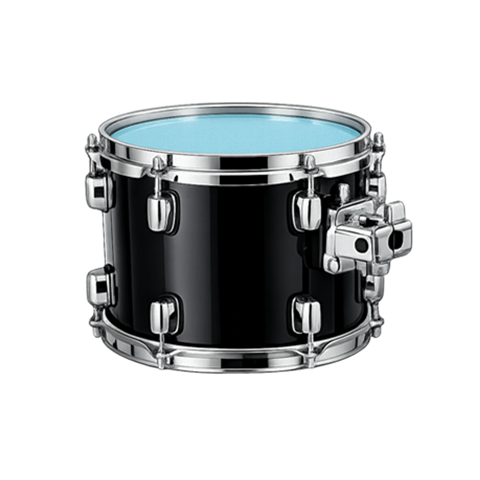
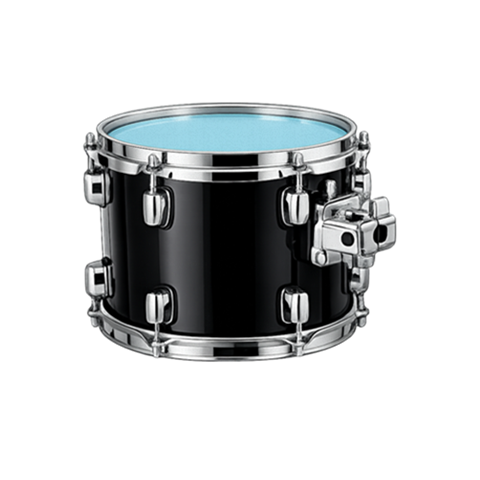
Fix hit-image alignment precisely, reposition tom_floor, add stick animation
Pixel-perfect (full-resolution) bounding-box alignment revealed the
previous coarser check had missed a real ~5% size mismatch on tom_high and
tom_floor's hit photos, causing a visible zoom/jump on hit — realigned all
5 hit images against their idle counterparts. Also: preload hit images and
pin aspect-ratio so a piece's first-ever hit doesn't flash while the image
loads; reposition tom_floor further back/right so its silhouette isn't cut
off by kick's edge; strengthen the cymbal glow (too subtle to notice) and
add a lighter matching glow for image-swap pieces; add a CSS-drawn
drumstick that swings in per piece (left-hand pieces from the left,
right-hand pieces from the right, none for kick).

Changed region(s): [[0.1562, 0.1875, 0.875, 0.7812]]

diff --git a/src/components/visual-trainer/DrumKit.tsx b/src/components/visual-trainer/DrumKit.tsx
@@ -27,8 +27,14 @@ const CYMBAL_PIECES: ReadonlySet<DrumPiece> = new Set(['ride', 'crash', 'hihat']
 // Front-facing kit shape, tightly grouped like an assembled kit rather than
 // scattered pieces: crash/ride angled at the top corners bookending the two
 // mounted toms (touching each other, directly above the kick), hihat stand
-// at the player's far left, snare/kick/floor-tom overlapping into one front
-// row with the kick largest and centered.
+// at the player's far left, snare/kick in the front row with the kick
+// largest and centered. tom_floor sits further back and to the right
+// (lower top%, higher left% than a naive "same row as kick" placement) —
+// pulled back explicitly per user feedback, since kick and tom_floor
+// overlapping heavily in the same row made kick's rounded edge look like it
+// was cutting into tom_floor's silhouette (DOM/paint order already has
+// tom_floor on top — see the isActive doc comment on DrumKitProps — this
+// was a spacing issue, not a stacking one).
 const PIECE_LAYOUT: Record<DrumPiece, CSSProperties> = {
   crash: { top: '0%', left: '9%', width: '40%' },
   tom_high: { top: '16%', left: '34%', width: '28%' },
@@ -37,7 +43,7 @@ const PIECE_LAYOUT: Record<DrumPiece, CSSProperties> = {
   hihat: { top: '20%', left: '-4%', width: '28%' },
   snare: { top: '34%', left: '12%', width: '32%' },
   kick: { top: '34%', left: '26%', width: '50%' },
-  tom_floor: { top: '34%', left: '55%', width: '38%' },
+  tom_floor: { top: '26%', left: '60%', width: '36%' },
 }
 
 const PIECE_IMAGE_SRC: Record<DrumPiece, string> = {
@@ -64,6 +70,15 @@ const HIT_IMAGE_SRC: Partial<Record<DrumPiece, string>> = {
   tom_high: '/drum-kit/tom-high-hit.png',
 }
 const HIT_FLASH_MS = 150
+
+// Every piece photo is a known fixed size (tom_floor is the only non-square
+// one) — pinning aspect-ratio means the browser reserves the right space
+// immediately, so a freshly-mounted <img> (every hit remounts its piece,
+// see DrumKitProps' isActive comment) can never visibly collapse/pop-in
+// while it decodes, on top of the actual pixel-alignment work below.
+const PIECE_ASPECT_RATIO: Partial<Record<DrumPiece, string>> = {
+  tom_floor: '320 / 480',
+}
 
 const PIECE_ALT: Record<DrumPiece, string> = {
   kick: 'בס דראם',
@@ -111,10 +126,32 @@ function PieceImage({ piece, isActive }: { piece: DrumPiece; isActive: boolean }
   }, [showHitImage])
 
   const src = showHitImage && hitImageSrc ? hitImageSrc : PIECE_IMAGE_SRC[piece]
-  return <img src={src} alt={PIECE_ALT[piece]} className="w-full drop-shadow-lg" />
+  const aspectRatio = PIECE_ASPECT_RATIO[piece]
+  return (
+    <img
+      src={src}
+      alt={PIECE_ALT[piece]}
+      className="w-full drop-shadow-lg"
+      style={aspectRatio ? { aspectRatio } : undefined}
+    />
+  )
 }
 
+// Every hit-image src, warmed into the browser's HTTP cache once on the
+// kit's first mount — a piece's hit image is otherwise only ever requested
+// lazily, the first time that piece is actually hit, which could show as a
+// blank/late-popping-in flash instead of an instant swap, independent of
+// how precisely the image itself is pixel-aligned to the idle photo.
+const HIT_IMAGE_SRCS = Object.values(HIT_IMAGE_SRC)
+
 export function DrumKit({ activeHits }: DrumKitProps) {
+  useEffect(() => {
+    for (const src of HIT_IMAGE_SRCS) {
+      const image = new Image()
+      image.src = src
+    }
+  }, [])
+
   const pieceTokens: Partial<Record<DrumPiece, string>> = {}
   if (activeHits) {
     for (const [instrument, token] of Object.entries(activeHits) as [DrumInstrument, string | undefined][]) {
@@ -128,10 +165,12 @@ export function DrumKit({ activeHits }: DrumKitProps) {
         const token = pieceTokens[piece]
         const isActive = token !== undefined
         // A piece with a HIT_IMAGE_SRC entry gets its feedback from
-        // PieceImage's blue-head image swap instead of the scale animation
-        // every other piece uses.
+        // PieceImage's blue-head image swap plus a lighter glow
+        // (image-hit), instead of the scale animation every other piece
+        // uses.
         const hasHitImage = HIT_IMAGE_SRC[piece] !== undefined
-        const className = `drum-piece${CYMBAL_PIECES.has(piece) ? ' cymbal' : ''}${isActive && !hasHitImage ? ' hit' : ''}`
+        const stateClass = isActive ? (hasHitImage ? ' image-hit' : ' hit') : ''
+        const className = `drum-piece${CYMBAL_PIECES.has(piece) ? ' cymbal' : ''}${stateClass}`
         return (
           <div
             key={isActive ? token : `${piece}-idle`}
@@ -140,6 +179,14 @@ export function DrumKit({ activeHits }: DrumKitProps) {
             style={{ position: 'absolute', ...PIECE_LAYOUT[piece] }}
           >
             <PieceImage piece={piece} isActive={isActive} />
+            {/* A CSS-drawn stick (index.css's .drumstick) rather than
+                another product photo: it's reusable across every piece with
+                one rule instead of needing a per-piece asset sourced and
+                pixel-aligned the way the hit-image photos were. Always
+                rendered — index.css only animates/shows it while the
+                parent has .hit or .image-hit, so it's invisible at rest.
+                Not rendered for kick, which is foot-pedal-operated. */}
+            {piece !== 'kick' && <div className="drumstick" aria-hidden="true" />}
           </div>
         )
       })}

diff --git a/src/index.css b/src/index.css
@@ -72,6 +72,29 @@ input[type='radio'] {
   animation: cymbal-hit 400ms ease-out;
 }
 
+/* Pieces that swap to a real "hit" product photo (DrumKit.tsx's
+   HIT_IMAGE_SRC) get a lighter glow alongside the color swap — the color
+   change is already the primary signal there, so this is deliberately
+   weaker than cymbal-hit's (smaller blur radii, lower brightness boost)
+   rather than a matching duplicate. A single thin drop-shadow (the first
+   version here) turned out to be too weak to actually notice against these
+   photos, so this still layers two shadows like cymbal-hit, just smaller. */
+.drum-piece.image-hit {
+  animation: drum-glow 200ms ease-out;
+}
+
+@keyframes drum-glow {
+  0% {
+    filter: drop-shadow(0 0 0 transparent) drop-shadow(0 0 0 transparent) brightness(1);
+  }
+  30% {
+    filter: drop-shadow(0 0 6px var(--color-primary)) drop-shadow(0 0 16px var(--color-primary)) brightness(1.15);
+  }
+  100% {
+    filter: drop-shadow(0 0 0 transparent) drop-shadow(0 0 0 transparent) brightness(1);
+  }
+}
+
 @keyframes drum-hit {
   0% {
     transform: scale(1);
@@ -86,13 +109,101 @@ input[type='radio'] {
 
 @keyframes cymbal-hit {
   0% {
-    filter: drop-shadow(0 0 0 transparent);
+    filter: drop-shadow(0 0 0 transparent) drop-shadow(0 0 0 transparent) brightness(1);
   }
   30% {
-    filter: drop-shadow(0 0 10px var(--color-primary)) brightness(1.3);
+    filter: drop-shadow(0 0 8px var(--color-primary)) drop-shadow(0 0 22px var(--color-primary)) brightness(1.5);
   }
   100% {
-    filter: drop-shadow(0 0 0 transparent);
+    filter: drop-shadow(0 0 0 transparent) drop-shadow(0 0 0 transparent) brightness(1);
+  }
+}
+
+/* CSS-drawn drumstick (DrumKit.tsx's .drumstick div, not rendered at all
+   for kick — that's foot-pedal-operated, no stick) — swings in from the
+   left (the player's own left, holding the stick off to that side) to
+   "strike" the piece and fades out, on every piece's hit (.hit or
+   .image-hit). A CSS shape rather than a photo so one rule covers every
+   piece, instead of sourcing and pixel-aligning a per-piece stick photo the
+   way the hit-image photos needed. Pivots from its own bottom-left corner,
+   near the piece's left edge — a first pass, likely needs per-piece
+   position/angle tuning like tom_floor's layout did. */
+.drumstick {
+  position: absolute;
+  bottom: 40%;
+  left: 8%;
+  width: 4%;
+  height: 55%;
+  background: linear-gradient(to bottom, #e8c39e, #b9814a);
+  border-radius: 999px;
+  transform-origin: bottom left;
+  transform: rotate(-20deg);
+  opacity: 0;
+  pointer-events: none;
+}
+
+.drum-piece.hit .drumstick,
+.drum-piece.image-hit .drumstick {
+  animation: stick-strike 180ms ease-out;
+}
+
+@keyframes stick-strike {
+  0% {
+    transform: rotate(-25deg);
+    opacity: 1;
+  }
+  55% {
+    transform: rotate(35deg);
+    opacity: 1;
+  }
+  100% {
+    transform: rotate(-25deg);
+    opacity: 0;
+  }
+}
+
+/* Right-hand pieces (hi-hat, ride, and the toms — same grouping as the
+   keyboard layout's own hand-crossing fix, which clustered these under the
+   right hand's keys) swing their stick in from the right instead of the
+   left — a horizontal mirror of the base rule/keyframes above. Snare and
+   crash keep the default left-hand origin. Kick has no stick at all (see
+   DrumKit.tsx) — foot-pedal-operated. */
+.drum-piece[data-instrument='hihat'] .drumstick,
+.drum-piece[data-instrument='ride'] .drumstick,
+.drum-piece[data-instrument='tom_high'] .drumstick,
+.drum-piece[data-instrument='tom_mid'] .drumstick,
+.drum-piece[data-instrument='tom_floor'] .drumstick {
+  left: auto;
+  right: 30%;
+  transform-origin: bottom right;
+  transform: rotate(20deg);
+}
+
+.drum-piece[data-instrument='hihat'].hit .drumstick,
+.drum-piece[data-instrument='hihat'].image-hit .drumstick,
+.drum-piece[data-instrument='ride'].hit .drumstick,
+.drum-piece[data-instrument='ride'].image-hit .drumstick,
+.drum-piece[data-instrument='tom_high'].hit .drumstick,
+.drum-piece[data-instrument='tom_high'].image-hit .drumstick,
+.drum-piece[data-instrument='tom_mid'].hit .drumstick,
+.drum-piece[data-instrument='tom_mid'].image-hit .drumstick,
+.drum-piece[data-instrument='tom_floor'].hit .drumstick,
+.drum-piece[data-instrument='tom_floor'].image-hit .drumstick {
+  animation-name: stick-strike-mirrored;
+}
+
+@keyframes stick-strike-mirrored {
+  0% {
+    transform: rotate(25deg);
+    opacity: 1;
+  }
+  55% {
+    transform: rotate(-35deg);
+    opacity: 1;
+  }
+  100% {
+    transform: rotate(25deg);
+    opacity: 0;
   }
 }
 

diff --git a/src/components/visual-trainer/DrumKit.test.tsx b/src/components/visual-trainer/DrumKit.test.tsx
@@ -57,6 +57,13 @@ describe('DrumKit', () => {
     expect(container.querySelectorAll('img')).toHaveLength(8)
   })
 
+  it('renders a drumstick for every piece except kick, which is foot-pedal-operated', () => {
+    const { container } = render(<DrumKit />)
+    expect(container.querySelector('[data-instrument="kick"] .drumstick')).not.toBeInTheDocument()
+    expect(container.querySelector('[data-instrument="snare"] .drumstick')).toBeInTheDocument()
+    expect(container.querySelector('[data-instrument="crash"] .drumstick')).toBeInTheDocument()
+  })
+
   describe.each([
     { piece: 'snare', instrument: 'snare', idleSrc: '/drum-kit/snare.png', hitSrc: '/drum-kit/snare-hit.png' },
     { piece: 'kick', instrument: 'kick', idleSrc: '/drum-kit/kick.png', hitSrc: '/drum-kit/kick-hit.png' },
@@ -75,6 +82,14 @@ describe('DrumKit', () => {
     it(`never applies the hit (scale animation) class to the ${piece} piece`, () => {
       const { container } = render(<DrumKit activeHits={{ [instrument]: 'a' }} />)
       expect(container.querySelector(`[data-instrument="${piece}"]`)).not.toHaveClass('hit')
+    })
+
+    it(`applies the image-hit (glow) class to the ${piece} piece only while active`, () => {
+      const { container } = render(<DrumKit activeHits={{ [instrument]: 'a' }} />)
+      expect(container.querySelector(`[data-instrument="${piece}"]`)).toHaveClass('image-hit')
+
+      const { container: idleContainer } = render(<DrumKit />)
+      expect(idleContainer.querySelector(`[data-instrument="${piece}"]`)).not.toHaveClass('image-hit')
     })
 
     it(`swaps to the blue-head image immediately on a ${piece} hit, then reverts after the flash window`, () => {
